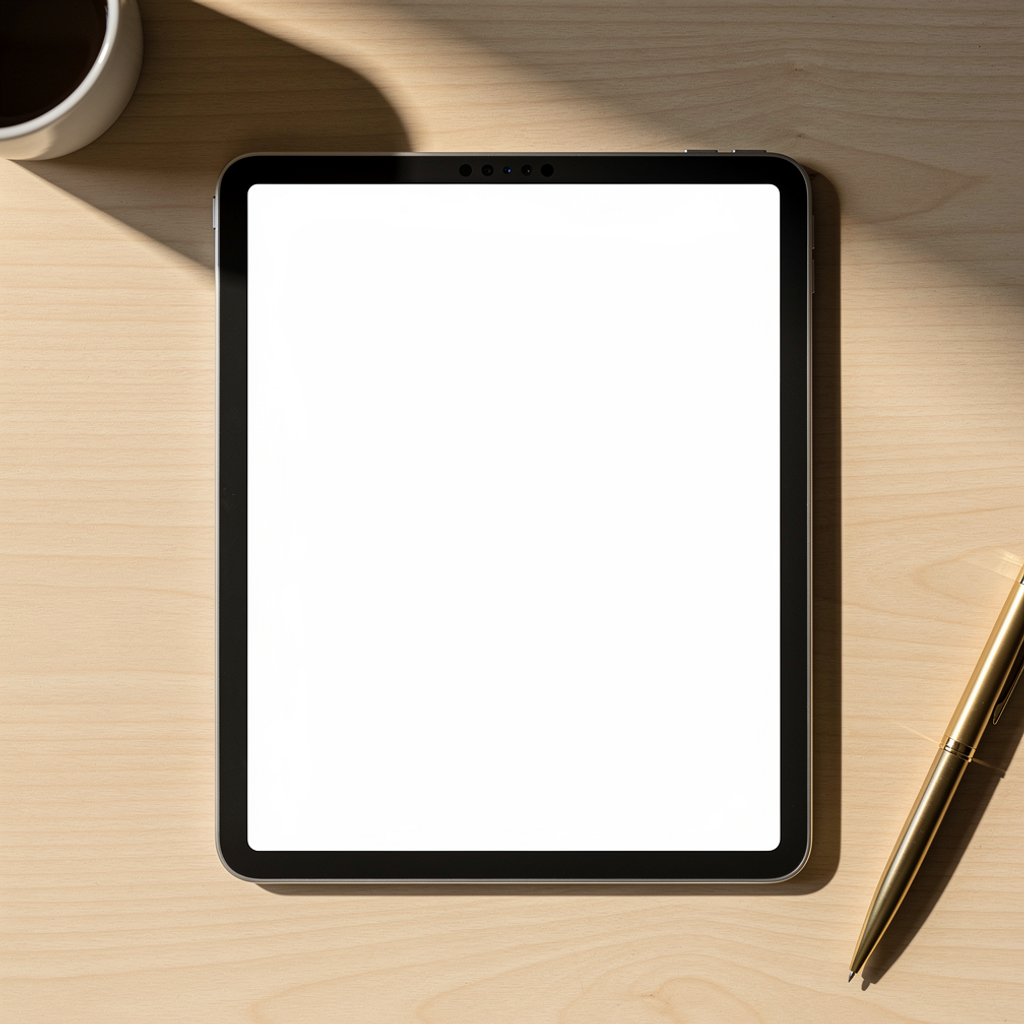
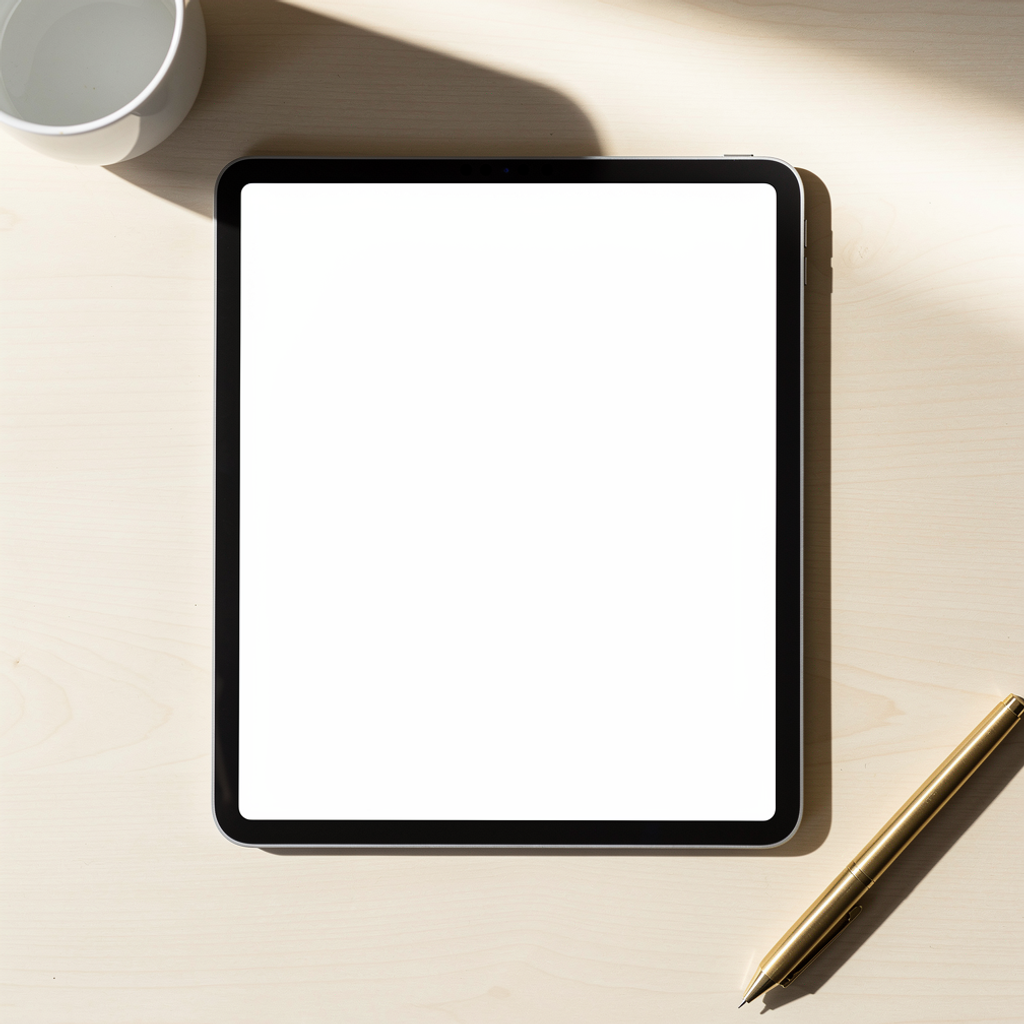
fix(trend): PDF overlap + mockup coords manuel + Higgsfield DoP Preview premium quality

diff --git a/scripts/generate-mockup-bases.ts b/scripts/generate-mockup-bases.ts
@@ -54,7 +54,39 @@ const SPECS: MockupSpec[] = [
   },
 ];
 
-const MODEL = 'black-forest-labs/flux-2-pro' as `${string}/${string}`;
+const MODELS: Array<`${string}/${string}`> = [
+  'black-forest-labs/flux-2-pro',  // best quality
+  'black-forest-labs/flux-2-max',  // fallback if pro is unavailable
+  'black-forest-labs/flux-2-flex', // last resort
+];
+
+async function generateWithRetry(
+  client: Replicate,
+  spec: MockupSpec,
+  attempts = 3,
+): Promise<unknown> {
+  let lastErr: Error | null = null;
+  for (let i = 0; i < attempts; i++) {
+    const model = MODELS[Math.min(i, MODELS.length - 1)]!;
+    try {
+      console.log(`  Attempt ${i + 1}/${attempts} with ${model}…`);
+      const out = await client.run(model, {
+        input: {
+          prompt: spec.prompt,
+          aspect_ratio: '1:1',
+          output_format: 'png',
+          safety_tolerance: 2,
+        },
+      });
+      return out;
+    } catch (err) {
+      lastErr = err instanceof Error ? err : new Error(String(err));
+      console.log(`  ⚠ ${lastErr.message.slice(0, 100)} — retrying…`);
+      await new Promise((r) => setTimeout(r, 2000));
+    }
+  }
+  throw lastErr ?? new Error('All attempts failed');
+}
 
 async function main(): Promise<void> {
   if (!existsSync(OUT_DIR)) mkdirSync(OUT_DIR, { recursive: true });
@@ -70,16 +102,19 @@ async function main(): Promise<void> {
 
   for (const spec of SPECS) {
     console.log(`\n── ${spec.slug} ──`);
-    console.log('Generating with Flux 2 Pro…');
 
-    const output = (await client.run(MODEL, {
-      input: {
-        prompt: spec.prompt,
-        aspect_ratio: '1:1',
-        output_format: 'png',
-        safety_tolerance: 2,
-      },
-    })) as unknown;
+    let output: unknown;
+    try {
+      output = await generateWithRetry(client, spec);
+    } catch (err) {
+      console.error(
+        `  ❌ All retries exhausted for ${spec.slug}: ${
+          err instanceof Error ? err.message : String(err)
+        }`,
+      );
+      console.error(`  Skipping ${spec.slug}, continuing with others…`);
+      continue;
+    }
 
     // Extract URL (same shape-handling as src/lib/trend/video.ts)
     let url: string | null = null;

diff --git a/src/lib/trend/video.ts b/src/lib/trend/video.ts
@@ -30,7 +30,10 @@ export interface ProductVideoResult {
 }
 
 const HIGGSFIELD_BASE = 'https://platform.higgsfield.ai';
-const DEFAULT_MODEL = 'higgsfield-ai/dop/standard';
+// Preview = higher quality tier per Higgsfield docs ("High-quality image animation")
+// DoP family chosen because it's camera-focused — minimises subject distortion
+// vs Kling/Seedance which can animate the subject itself.
+const DEFAULT_MODEL = 'higgsfield-ai/dop/preview';
 
 function getCredentials(): { key: string; secret: string } {
   const key = process.env.HIGGSFIELD_API_KEY;
@@ -63,24 +66,27 @@ function buildVideoPrompt(
   niche: NicheCandidate,
   content: ProductContent,
 ): string {
+  // Camera moves tuned for "high-end commercial product film" feel.
+  // DoP Preview rewards SPECIFIC camera direction (Hasselblad, Arri, focal length).
   const cameraByType: Record<NicheCandidate['productHint'], string> = {
     planner:
-      'slow cinematic dolly-in from above, gentle parallax over the open planner, soft window light shifts subtly',
+      'DRAMATIC cinematic dolly-in shot on Arri Alexa with 50mm prime lens, smooth parallax over the open planner from overhead-tilted angle, soft window light slowly intensifies, professional commercial product film',
     poster:
-      'slow push-in on the framed poster, light dust particles drift through warm side-light',
+      'DRAMATIC slow push-in on the framed poster with shallow depth of field, light dust particles drift through warm directional side-light, Hasselblad medium-format aesthetic, gallery-quality cinematography',
     sticker:
-      'gentle horizontal pan across the sticker sheet, soft overhead light catches paper texture',
+      'SMOOTH cinematic dolly across the sticker sheet at low angle, focus rack from foreground stickers to back, soft overhead key light, premium product commercial style',
     template:
-      'smooth dolly-in over the laptop screen showing the template, ambient blur on background',
+      'CINEMATIC dolly-in over the laptop screen showing the template, professional camera move with subtle parallax, ambient bokeh on background, Apple product film aesthetic',
     social_template:
-      'slow cinematic push-in on the phone screen, gentle bokeh shifts in background',
+      'CINEMATIC push-in on the phone screen with rack focus, premium commercial framing, gentle bokeh shifts, smooth gimbal movement',
   };
   const cameraMove = cameraByType[niche.productHint] ?? cameraByType.planner;
   return [
-    `Editorial still-life: ${content.shopTitle}. Theme: ${niche.topic}.`,
-    `Camera direction: ${cameraMove}.`,
-    'Cinematic, magazine-quality, restrained colour palette, gentle film grain.',
-    'Subject stays still — only the CAMERA moves; no animated objects, no rotating items, no changing text.',
+    `Editorial still-life product film: "${content.shopTitle}". Theme: ${niche.topic}.`,
+    `CAMERA MOVEMENT: ${cameraMove}.`,
+    'STYLE: high-end commercial advertisement film, restrained editorial colour palette, magazine-quality cinematography, gentle film grain, golden-hour soft lighting.',
+    'CRITICAL — ABSOLUTE STATIC SUBJECT REQUIREMENT: the product itself must remain 100% identical to the source image — no movement, no morphing, no rotation, no shifting, no text changing, no objects appearing or disappearing. The PRODUCT IS FROZEN IN PLACE. Only the camera moves through space. This is a still-life shot, not an animation.',
+    'AVOID: animated objects, rotating items, changing text, distortion, morphing, additional elements, AI artefacts, jittery motion, cartoon style.',
   ].join(' ');
 }
 
@@ -166,11 +172,15 @@ export async function generateProductVideo(
   const prompt = buildVideoPrompt(niche, content);
 
   // Higgsfield DoP body. Field names follow the docs/examples.
+  // negative_prompt may or may not be honoured by all model variants — including
+  // it costs nothing and helps when supported.
   const created = await postCreate(model, {
     prompt,
     image_url: heroUrl,
     duration: 5,
     aspect_ratio: '9:16',
+    negative_prompt:
+      'animated subject, rotating product, morphing text, changing letters, distorted geometry, AI artefacts, jittery motion, glitching, warped objects, additional elements appearing, subject deformation',
   });
 
   // Poll every 5s, up to 6 minutes (72 attempts)

diff --git a/src/lib/trend/pdf-generator.tsx b/src/lib/trend/pdf-generator.tsx
@@ -141,17 +141,27 @@ const styles = StyleSheet.create({
     objectFit: 'contain',
   },
   // Prompt page
+  promptNumberRow: {
+    flexDirection: 'row',
+    alignItems: 'baseline',
+    marginBottom: 22,
+    marginTop: 4,
+  },
   promptNumber: {
     fontFamily: 'Helvetica-Bold',
-    fontSize: 38,
+    fontSize: 48,
+    lineHeight: 1.05,
     color: COLORS.accent,
-    marginBottom: 4,
+    marginRight: 18,
+    width: 80,
   },
   promptText: {
-    fontSize: 16,
+    flex: 1,
+    fontSize: 15,
     lineHeight: 1.4,
     fontFamily: 'Helvetica-Bold',
-    marginBottom: 22,
+    color: COLORS.ink,
+    paddingTop: 12,
   },
   reflectLineLabel: {
     fontSize: 8,
@@ -360,8 +370,10 @@ function PromptPage({
   return (
     <Page size="A4" style={styles.page}>
       <Text style={styles.pageEyebrow}>PROMPT {number} OF {total}</Text>
-      <Text style={styles.promptNumber}>{String(number).padStart(2, '0')}</Text>
-      <Text style={styles.promptText}>{prompt}</Text>
+      <View style={styles.promptNumberRow}>
+        <Text style={styles.promptNumber}>{String(number).padStart(2, '0')}</Text>
+        <Text style={styles.promptText}>{prompt}</Text>
+      </View>
       <Text style={styles.reflectLineLabel}>WRITE HERE</Text>
       {Array.from({ length: 14 }).map((_, i) => (
         <View key={i} style={styles.reflectLine} />